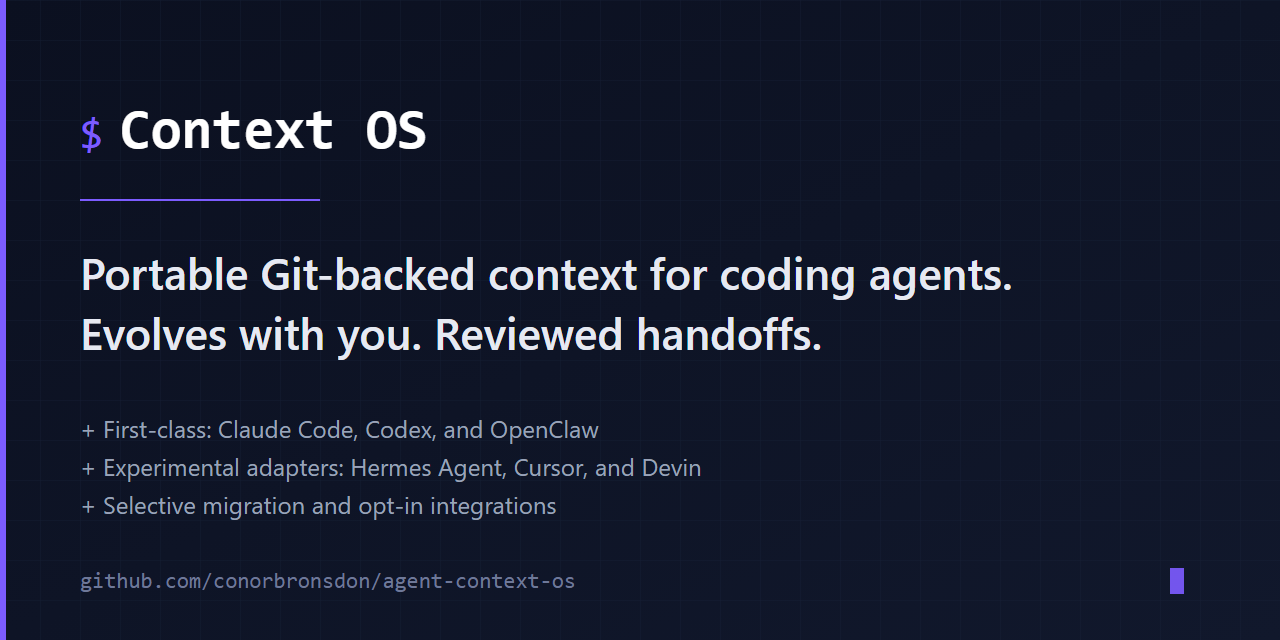
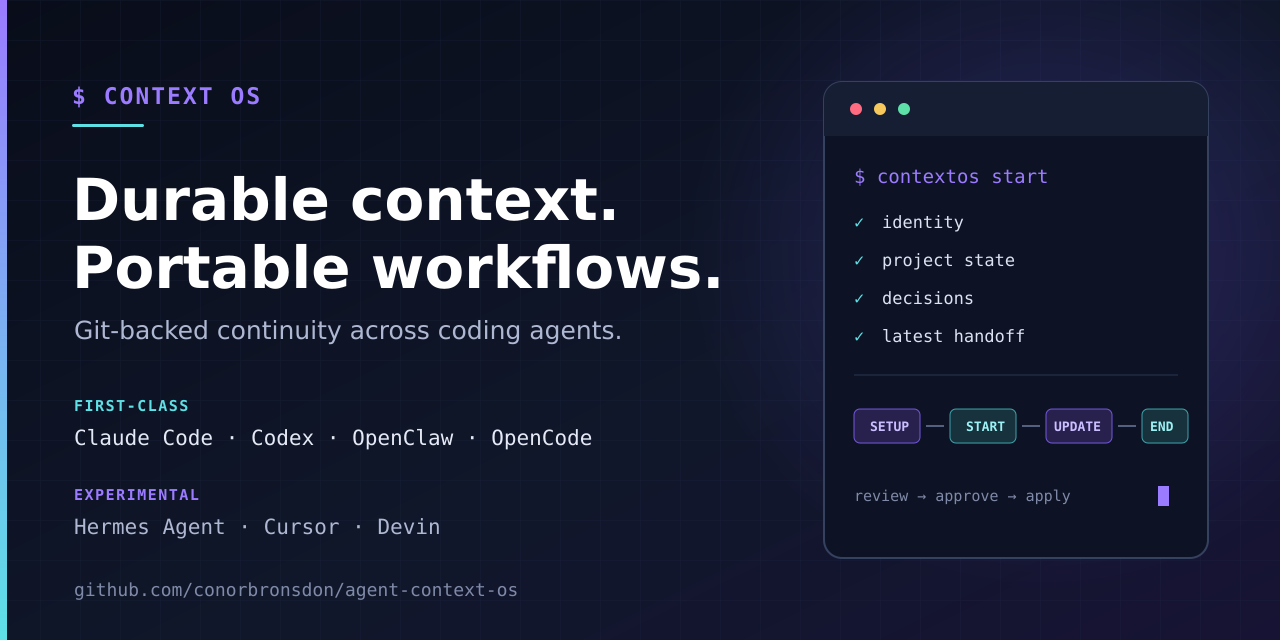
docs: refresh social preview card

diff --git a/CHANGELOG.md b/CHANGELOG.md
@@ -3,6 +3,9 @@
 ## [Unreleased]
 
 ### Fixed
+- Refresh the social preview from the current runtime manifests, including
+  first-class OpenCode support, and keep both tracked PNG aliases byte-identical
+  to the 1280×640 source render (#195).
 - Freeze the apply-time clock in four coordination promotion tests so fixed-date
   message fixtures do not expire as wall-clock time advances.
 - Pin validation actions to immutable commits and label the OpenClaw gateway
